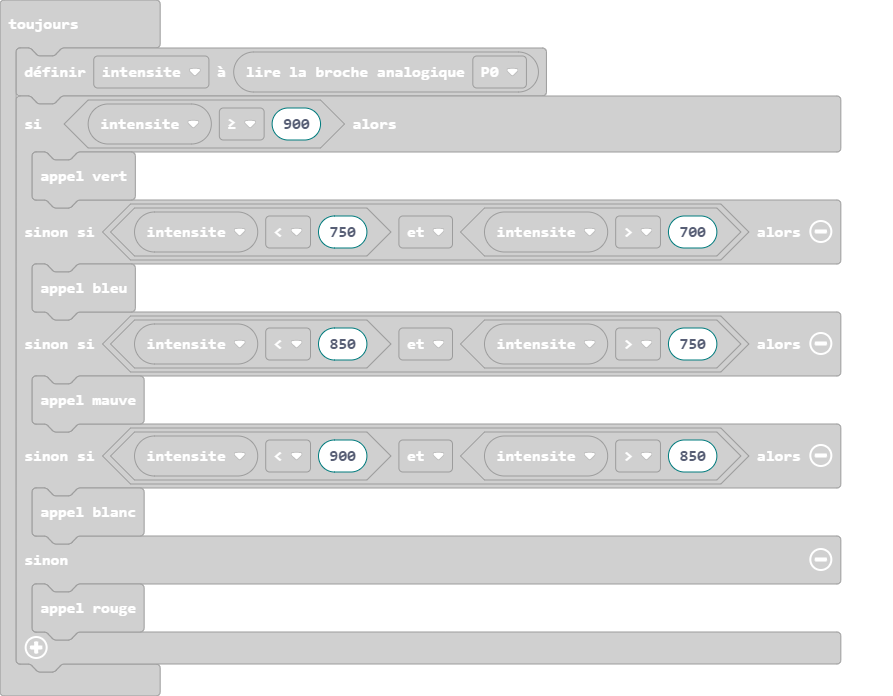
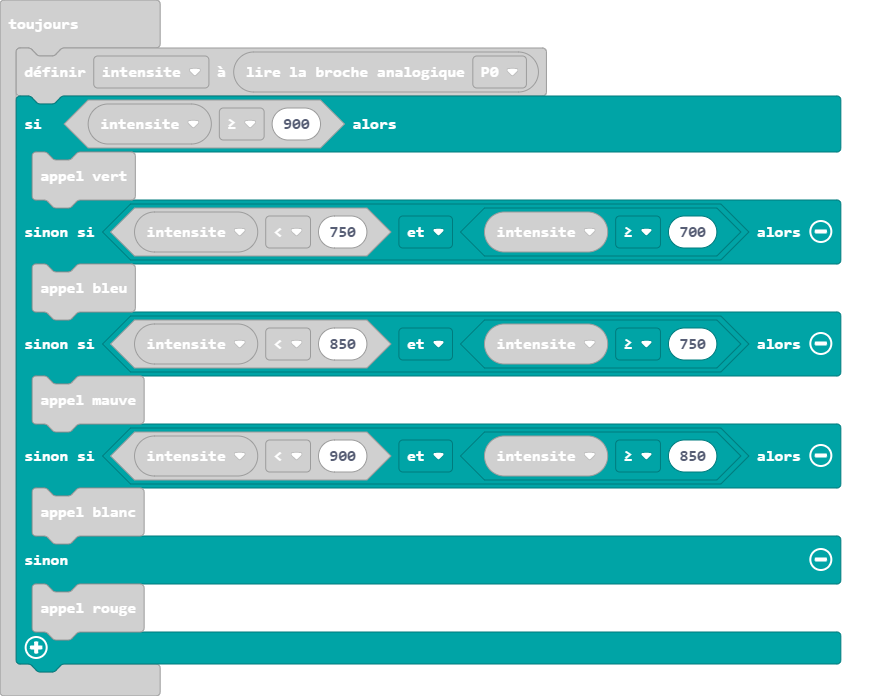
Mise à jour pxt.json, main.blocks, main.ts

diff --git a/main.ts b/main.ts
@@ -31,11 +31,11 @@ basic.forever(function () {
     intensite = pins.analogReadPin(AnalogPin.P0)
     if (intensite >= 900) {
         vert()
-    } else if (intensite < 750 && intensite > 700) {
+    } else if (intensite < 750 && intensite >= 700) {
         bleu()
-    } else if (intensite < 850 && intensite > 750) {
+    } else if (intensite < 850 && intensite >= 750) {
         mauve()
-    } else if (intensite < 900 && intensite > 850) {
+    } else if (intensite < 900 && intensite >= 850) {
         blanc()
     } else {
         rouge()
